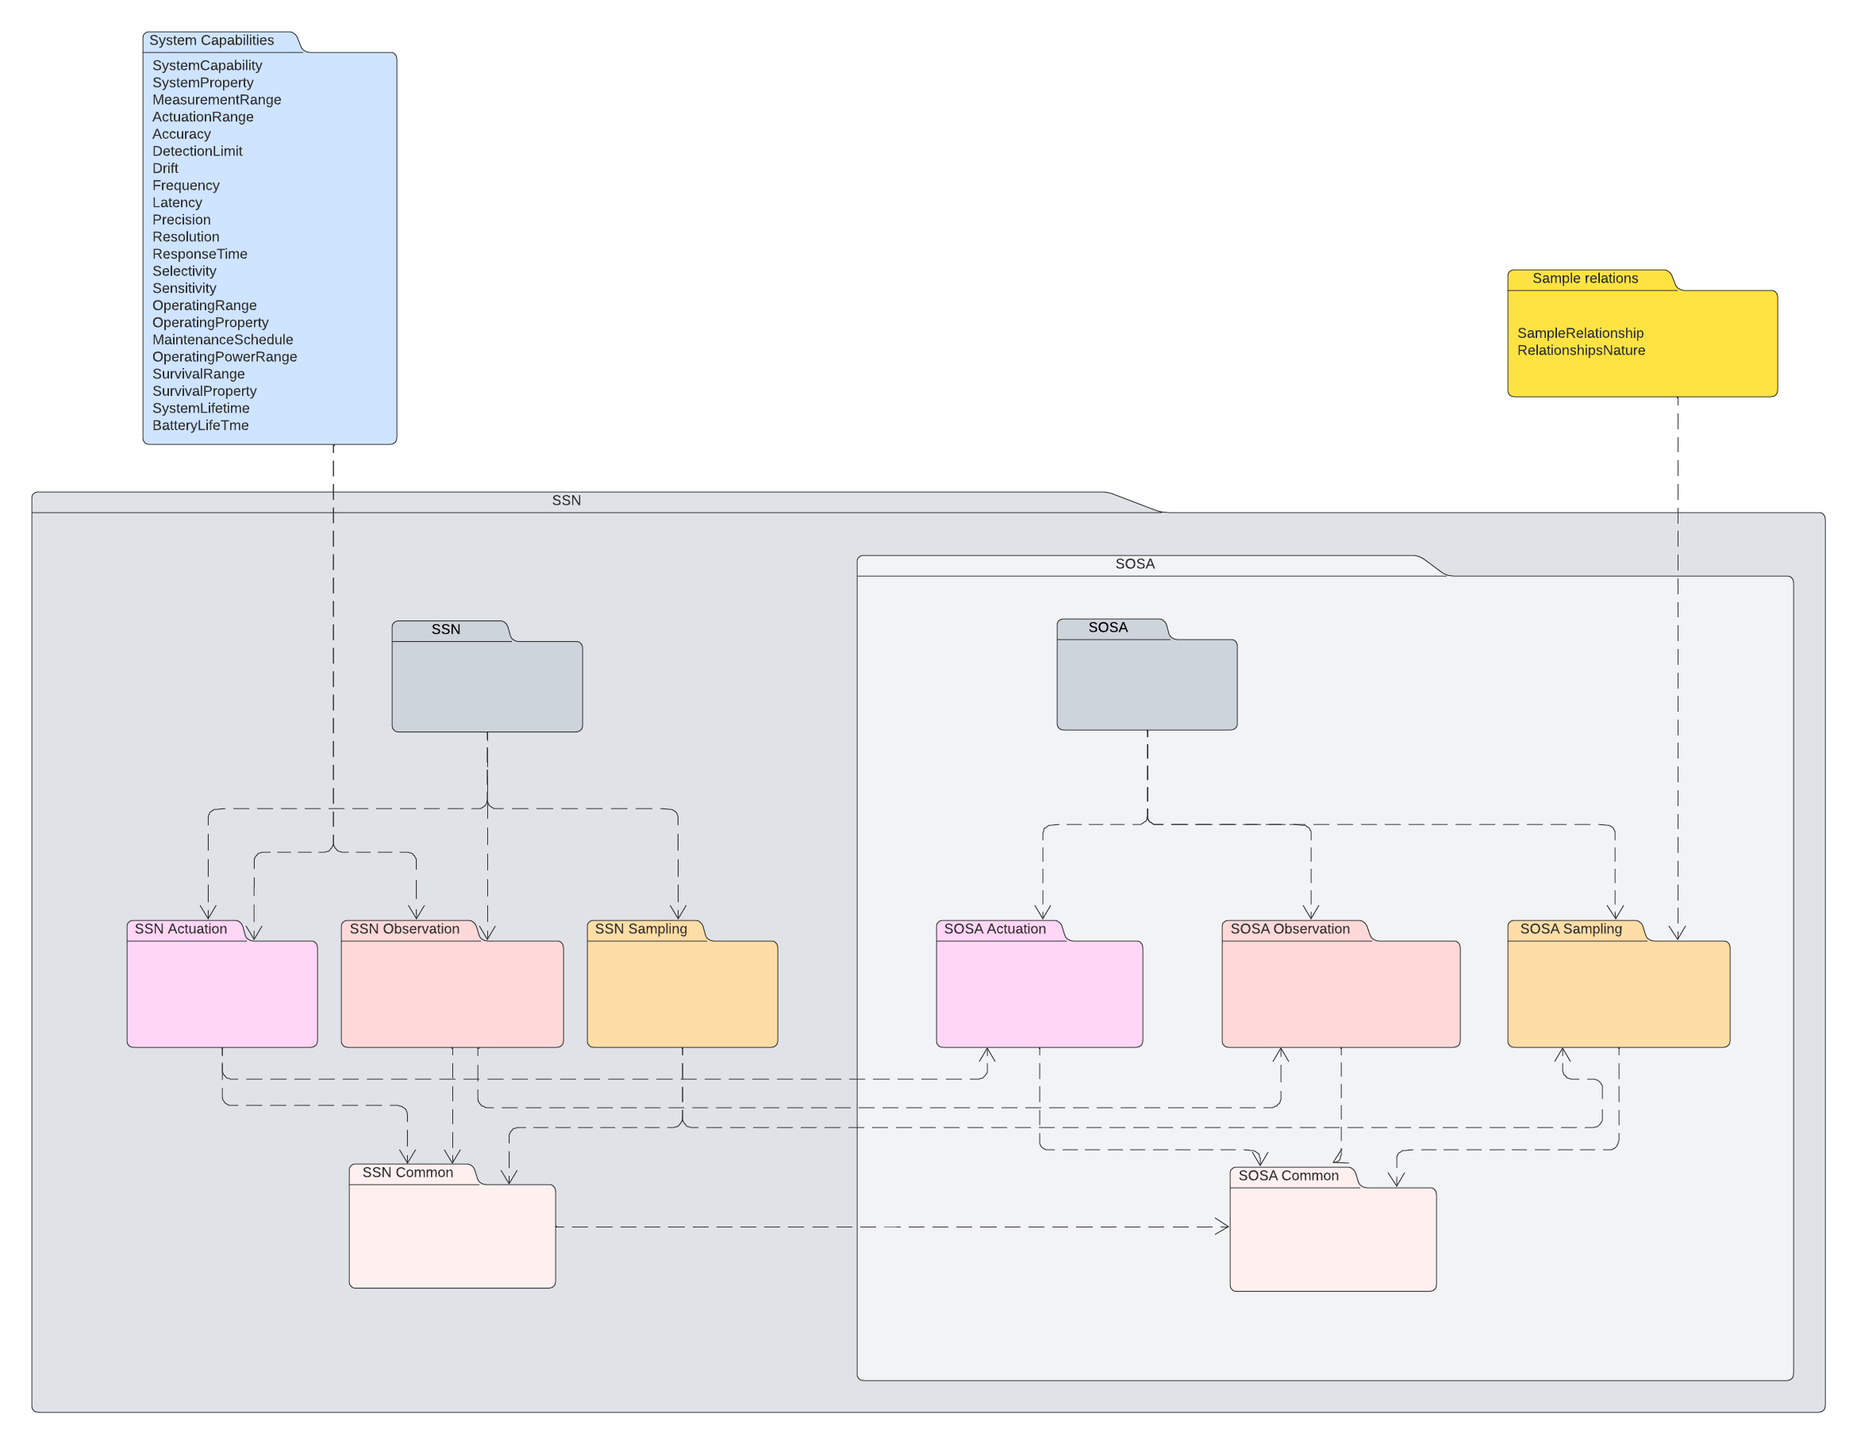
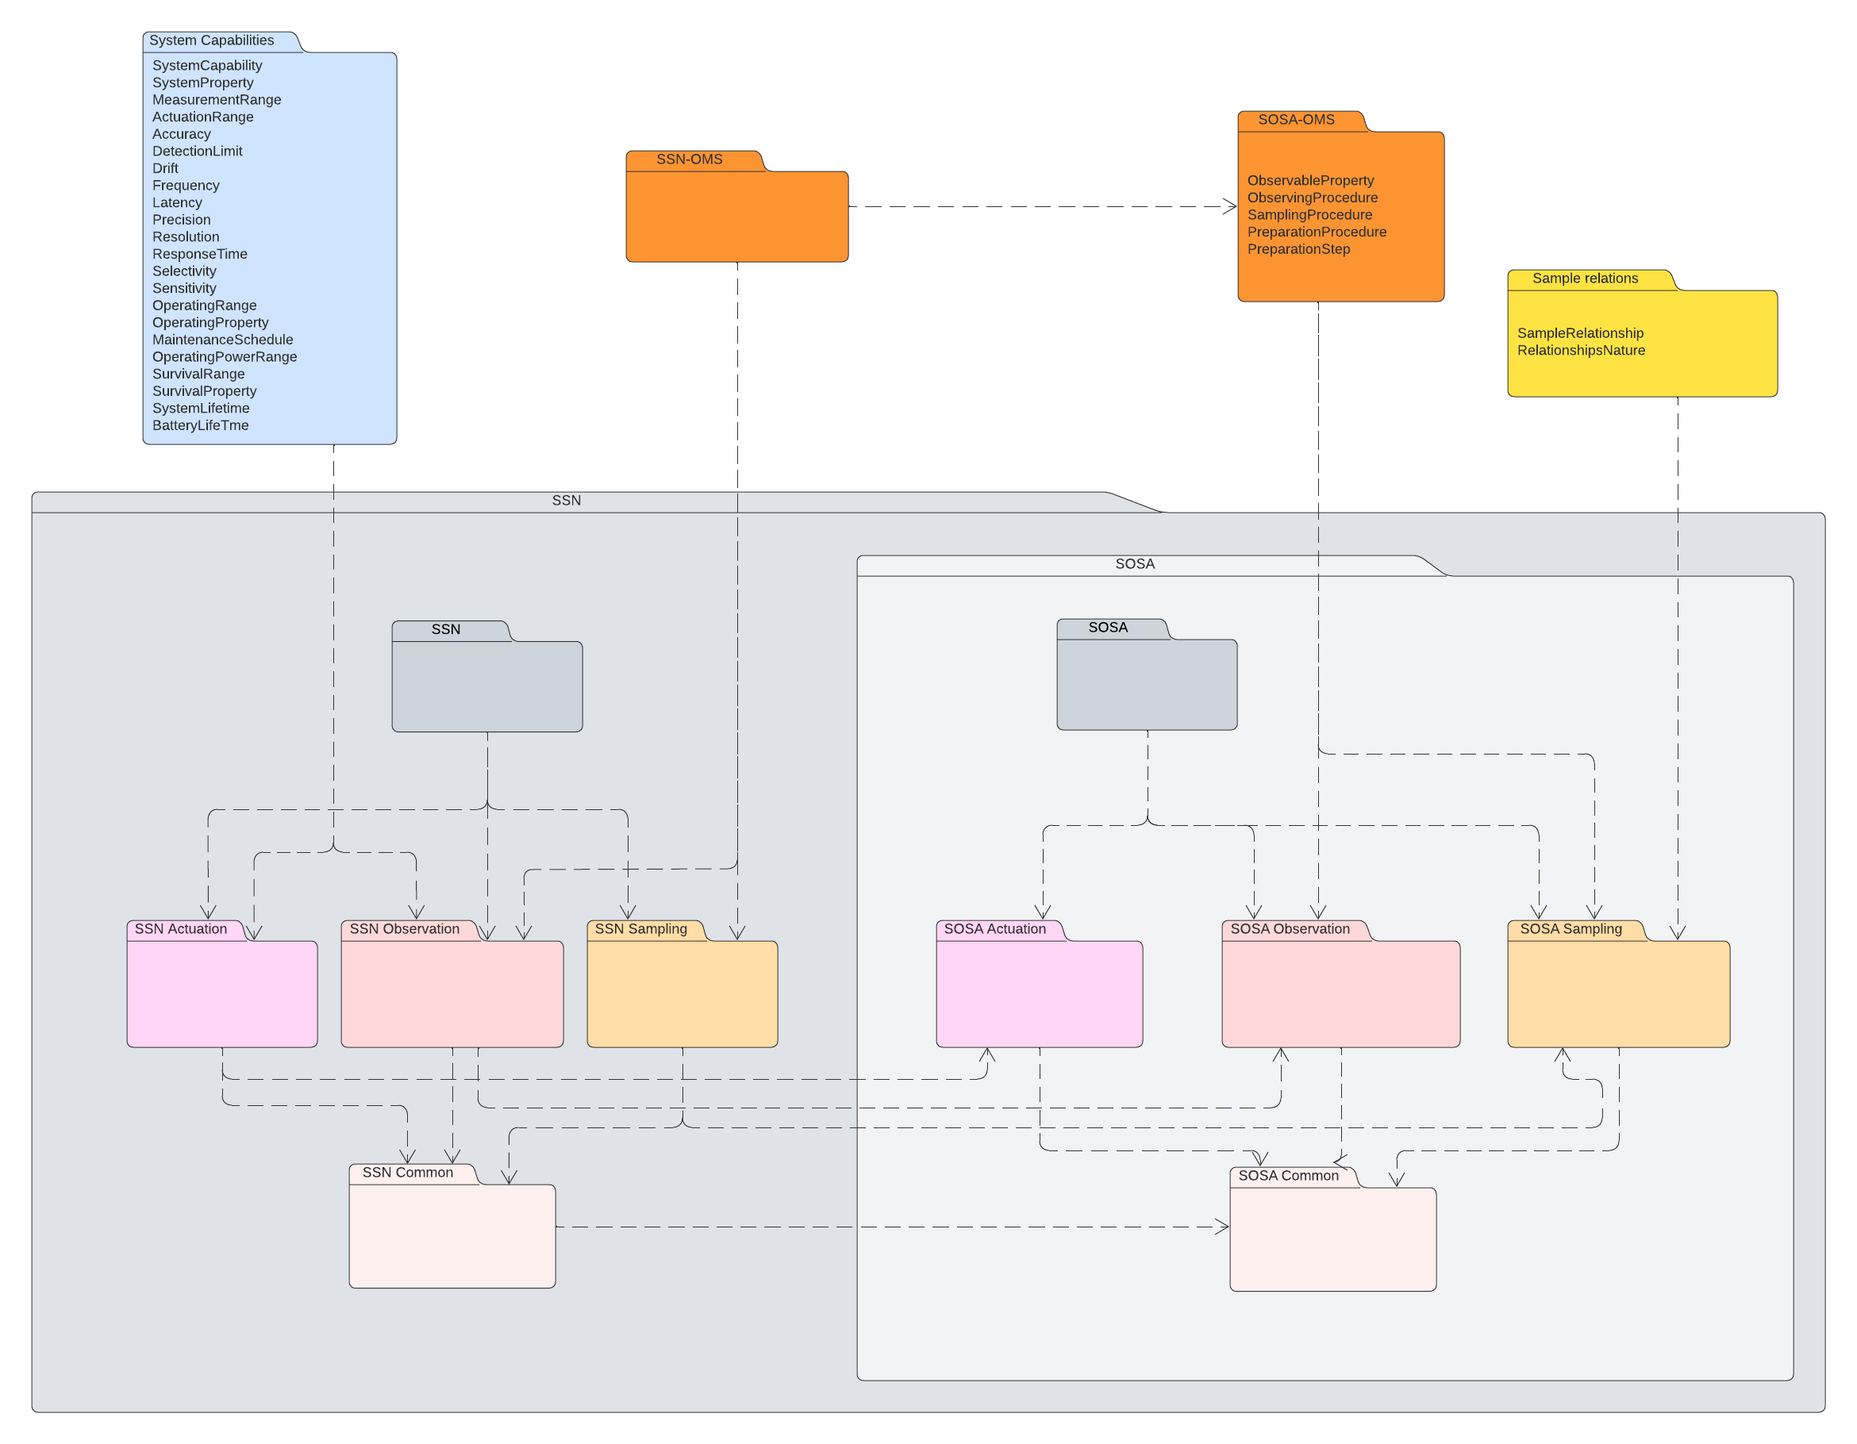
Move OMS modeul from Alignments to Extensions

Changed region(s): [[0.6551, 0.0615, 0.7799, 0.2154], [0.312, 0.0923, 0.4679, 0.1846]]

diff --git a/ssn/chapters/OMS.html b/ssn/chapters/OMS.html
@@ -1,13 +1,12 @@
-<!-- <section id="OMS_alignment" class="normative"> -->
-<h3>OMS Alignment Module</h3>
+<!-- <section id="OMS" class="normative"> -->
+<h3>OMS Extension Module</h3>
 <p>
-  This section introduces the alignment of SOSA and SSN to [[[OMS]]] (ISO 19156:2023).
+  This section introduces extensions to the SSN Ontology to provide a canonical RDF implementation of [[[OMS]]] (ISO
+  19156:2023).
 </p>
 <p>
   OMS is the latest edition of the OGC and ISO standard previously known as Observations and Measurements [[OandM]],
   which was a key influence and input in the development of SSN.
-  This module serves to provide a detailed mapping of SOSA terms to discrete requirements in [[OMS]] thus
-  explaining how SOSA and SSN provide an RDF and OWL/RDFS implementation of OMS (repectively).
 </p>
 <p class="note">
   OMS was published by ISO 19156:2023 [[iso-19156-2023]], but is freely available as OGC Abstract
@@ -15,13 +14,14 @@
 </p>
 
 <p>
+  This module provides (i) additional classes and properties required for an RDF implementation of OMS, (ii) a detailed
+  mapping of SOSA terms to discrete requirements in [[OMS]].
   Note that [[OMS]] is formalized using UML, which does not provide accessible global identifiers for terms in the
   structure model.
-  Here we use the URI for each formal Requirement relating to a class or property in [[OMS]] to denote the UML
-  class or property.
-  Within the RDF representation of the alignment, we use the predicates <code>ogc-ms:implements</code> to link a SOSA
-  term to the corresponding OMS class or property, and <code>ogc-ms:implementedBy</code> for the inverse, defined as
-  follows: </p>
+  The URI for each formal Requirement relating to a class or property in [[OMS]] denotes the UML class or
+  property.
+  The predicate <code>ogc-ms:implements</code> links a SOSA term to the corresponding OMS class or property,
+  and <code>ogc-ms:implementedBy</code> its inverse, defined as follows: </p>
 <pre>ogc-ms:implements an OWL:ObjectProperty ;
   rdfs:subPropertyOf dcterms:source , prov:wasDerivedFrom . </pre>
 
@@ -30,8 +30,7 @@
 
 <h4>SOSA-OMS</h4>
 <p>
-  SOSA-OMS describes the alignment of SOSA to ISO 19156:2023 [[OMS]] using annotations to link SOSA
-  terms to specific requirements in [[OMS]].
+  SOSA-OMS describes the implementation of ISO 19156:2023 [[OMS]] using terms from the SSN Ontology.
   SOSA-OMS imports SOSA Observation and SOSA Sampling and declares additional terms required for OMS.
   <b>SOSA-OMS is the canonical RDF implementation of OMS.</b>
 </p>
@@ -41,7 +40,8 @@
 
 <h4>SSN-OMS</h4>
 <p>
-  SSN-OMS describes the alignment of SSN to ISO 19156:2023 [[OMS]] with RDFS/OWL axiomatization.
+  SSN-OMS describes the implementation of ISO 19156:2023 [[OMS]] using terms from the SSN Ontology, with RDFS/OWL
+  axiomatization.
   SSN-OMS imports SOSA-OMS and SSN Observation and SSN Sampling.
   <b>SSN-OMS is the canonical OWL implementation of OMS.</b>
 </p>
@@ -49,9 +49,9 @@
   The SSN-OMS graph is available at <a href="http://www.w3.org/ns/ssn-oms/">http://www.w3.org/ns/ssn-oms/</a>.
 </p>
 
-<section id="OMS_Alignment-namespaces">
+<section id="OMS-namespaces">
   <h4>Namespaces</h4>
-  <p>The following namespace prefixes are used in the alignment of SOSA and SSN to OMS</p>
+  <p>The following namespace prefixes are used in the RDF implementation of OMS:</p>
   <table>
     <tbody>
       <tr>
@@ -106,12 +106,14 @@
     </tbody>
   </table>
 </section>
-<section id="OMS-Alignment-New-Terms">
+<section id="OMS-New-Terms">
   <h4>New terms</h4>
   <p>
     A number of terms in OMS do not have matches in the SSN Ontology.
   </p>
-  <p>This section introduces the following classes and properties:</p>
+  <p>
+    This section introduces the following classes and properties:
+  </p>
   <div class="azlist">
     <p>
       <a href="#OMSObservingProcedure">sosa-oms:ObservingProcedure</a>
@@ -132,7 +134,7 @@
 
   <p class="note">Terms in the <code>sosa-oms:</code> namespace were added in the 2024 Update.
     These are non-normative, pending further implementation experience</p>
-<p>
+  <p>
 
   <section class="informative specterm sosa" id="OMSObservingProcedure" about="sosa-oms:ObservingProcedure"
     typeof="owl:Class">
@@ -285,7 +287,7 @@
     </table>
 
     <div class="buttonpanel">
-      <span class="back">[<a href="#OMS_alignment">Back to module overview</a>]</span>
+      <span class="back">[<a href="#OMS">Back to module overview</a>]</span>
       <span class="back">[<a href="#overview-of-classes-and-properties">Back to top</a>]</span>
     </div>
   </section>
@@ -370,7 +372,7 @@
       </tbody>
     </table>
     <div class="buttonpanel">
-      <span class="back">[<a href="#OMS_alignment">Back to module overview</a>]</span>
+      <span class="back">[<a href="#OMS">Back to module overview</a>]</span>
       <span class="back">[<a href="#overview-of-classes-and-properties">Back to top</a>]</span>
     </div>
   </section>
@@ -415,7 +417,7 @@
     </table>
 
     <div class="buttonpanel">
-      <span class="back">[<a href="#OMS_alignment">Back to module overview</a>]</span>
+      <span class="back">[<a href="#OMS">Back to module overview</a>]</span>
       <span class="back">[<a href="#overview-of-classes-and-properties">Back to top</a>]</span>
     </div>
   </section>
@@ -468,7 +470,7 @@
       </tbody>
     </table>
     <div class="buttonpanel">
-      <span class="back">[<a href="#OMS_alignment">Back to module overview</a>]</span>
+      <span class="back">[<a href="#OMS">Back to module overview</a>]</span>
       <span class="back">[<a href="#overview-of-classes-and-properties">Back to top</a>]</span>
     </div>
   </section>
@@ -504,7 +506,7 @@
     </table>
 
     <div class="buttonpanel">
-      <span class="back">[<a href="#OMS_alignment">Back to module overview</a>]</span>
+      <span class="back">[<a href="#OMS">Back to module overview</a>]</span>
       <span class="back">[<a href="#overview-of-classes-and-properties">Back to top</a>]</span>
     </div>
   </section>
@@ -546,7 +548,7 @@
     </table>
 
     <div class="buttonpanel">
-      <span class="back">[<a href="#OMS_alignment">Back to module overview</a>]</span>
+      <span class="back">[<a href="#OMS">Back to module overview</a>]</span>
       <span class="back">[<a href="#overview-of-classes-and-properties">Back to top</a>]</span>
     </div>
   </section>
@@ -588,7 +590,7 @@
     </table>
 
     <div class="buttonpanel">
-      <span class="back">[<a href="#OMS_alignment">Back to module overview</a>]</span>
+      <span class="back">[<a href="#OMS">Back to module overview</a>]</span>
       <span class="back">[<a href="#overview-of-classes-and-properties">Back to top</a>]</span>
     </div>
   </section>
@@ -628,7 +630,7 @@
     </table>
 
     <div class="buttonpanel">
-      <span class="back">[<a href="#OMS_alignment">Back to module overview</a>]</span>
+      <span class="back">[<a href="#OMS">Back to module overview</a>]</span>
       <span class="back">[<a href="#overview-of-classes-and-properties">Back to top</a>]</span>
     </div>
   </section>
@@ -670,7 +672,7 @@
     </table>
 
     <div class="buttonpanel">
-      <span class="back">[<a href="#OMS_alignment">Back to module overview</a>]</span>
+      <span class="back">[<a href="#OMS">Back to module overview</a>]</span>
       <span class="back">[<a href="#overview-of-classes-and-properties">Back to top</a>]</span>
     </div>
   </section>
@@ -716,16 +718,16 @@
     </table>
 
     <div class="buttonpanel">
-      <span class="back">[<a href="#OMS_alignment">Back to module overview</a>]</span>
+      <span class="back">[<a href="#OMS">Back to module overview</a>]</span>
       <span class="back">[<a href="#overview-of-classes-and-properties">Back to top</a>]</span>
     </div>
   </section>
 
 </section>
 
-<section id="OMS-Alignment-Class-SOSA">
+<section id="OMS-Class-SOSA">
   <h4>Class Alignments - SOSA focus</h4>
-  <p>The following classes used in SOSA can be aligned as indicated: </p>
+  <p>The following classes from the SSN Ontology and this extension implement UML classes from OMS as indicated: </p>
   <table data-sortable="true">
     <tbody>
       <tr>
@@ -827,9 +829,10 @@
   </table>
 </section>
 
-<section id="OMS-Alignment-Class-OMS">
+<section id="OMS-Class-OMS">
   <h4>Class Alignments - OMS focus</h4>
-  <p>The following classes in OMS can be aligned as indicated: </p>
+  <p>The following UML classes in OMS are implemented by classes from the SSN Ontology and this extension as indicated:
+  </p>
   <table data-sortable="true">
     <tbody>
       <tr>
@@ -931,9 +934,10 @@
   </table>
 </section>
 
-<section id="OMS-Alignment-Property-SOSA">
+<section id="OMS-Property-SOSA">
   <h4>Property Alignments - SOSA focus</h4>
-  <p>The following properties used in SOSA can be aligned as indicated: </p>
+  <p>The following properties from the SSN Ontology and this extension implement attributes and association roles from
+    OMS as indicated: </p>
   <table data-sortable="true">
     <tbody>
       <tr>
@@ -1149,9 +1153,10 @@
   </table>
 </section>
 
-<section id="OMS-Alignment-Property-OMS">
+<section id="OMS-Property-OMS">
   <h4>Property Alignments - OMS focus</h4>
-  <p>The following association roles from OMS can be aligned as indicated: </p>
+  <p>The following attributes and association roles from OMS are implemented by properties from the SSN Ontology and
+    this extension as indicated: </p>
   <table data-sortable="true">
     <tbody>
       <tr>

diff --git a/ssn/index.html b/ssn/index.html
@@ -174,6 +174,8 @@
     <h2>SSN Extensions</h2>
     This section provides details on modules that extend the scope and capabilities of SSN.
 
+    <section id="OMS" class="normative" data-include="./chapters/OMS.html"></section>
+
     <section id="System-capabilities" class="normative" data-include="./chapters/System-capabilities.html"></section>
 
     <section id="Sample-Relations" class="normative" data-include="./chapters/Sample-Relations.html"></section>
@@ -184,8 +186,6 @@
     <h2>Alignments</h2>
     <p>This section introduces the specifications for the modules that align SOSA and SSN to a variety of related
       ontologies and specifications. </p>
-
-    <section id="OMS-alignment" class="normative" data-include="./chapters/OMS-alignment.html"></section>
 
     <section id="PROV-alignment" class="normative" data-include="./chapters/PROV-alignment.html"></section>
 
@@ -640,32 +640,25 @@
     <ol>
       <li>Updated Abstract to reflect the revised graph and axiomatization design</li>
       <li>Updated Chapter 2 'Modularization' to simplify and to reflect the revised graph arrangement</li>
-      <li>Changed title of Chapter 4 from 'Axiomatization' to 'RDF Implementation' and updated the summary of
-        namespaces
-        and graphs</li>
-      <li>Adjust namespace of terms previously in sosa:</li>
-      <li>Added OMS alignment modules to section 6. 'Vertical Segmentation'</li>
-      <li>Added ObservationCollection, SampleCollection, hasMember</li>
-      <li>Retire O&amp;Mv2 alignment - superseded by OMS alignment</li>
-      <li>Retire SSNX alignment - leave behind a stub giving links to the previous edition of the recommendation and
-        to
+      <li>Add conformance clause Chapter 3</li>
+      <li>Updated Chapter 4 and Chapter 5.1 to explain modularization and RDF implementation</li>
+      <li>Retire O&amp;Mv2 alignment - superseded by OMS extension</li>
+      <li>Retire SSNX alignment - leave behind a stub giving links to the previous edition of the recommendation and to
         the RDF alignment file</li>
-      <li>Remove sosa:Input, sosa:Output ; mark ssn:Input, ssn:Output deprecated</li>
+      <li>Mark ssn:Input, ssn:Output deprecated</li>
       <li>Mark ssn-system:Condition deprecated</li>
       <li>Mark sosa:Result deprecated</li>
-      <li>Update OBOE alignment - using ObservationCollection, SampleCollection, hasMember</li>
-      <li>remove rdfs:range on sosa:resultTime</li>
-      <li>Add content model for Execution, including hasInputValue and hasOutputValue</li>
+      <li>Add ObservationCollection, SampleCollection, hasMember</li>
       <li>Add ActuationCollection to provide basic support for sets of actuations on multiple properties with multiple
         results; clarify meaning of Actuation result</li>
+      <li>Add SamplingCollection to provide mechanism for grouping sets of Samplings with common properties</li>
+      <li>Update OBOE alignment - using ObservationCollection, SampleCollection, hasMember</li>
+      <li>remove rdfs:range on sosa:resultTime</li>
+      <li>Add content model for Execution, ExecutionCollection, including hasInputValue and hasOutputValue</li>
       <li>Clarify meaning of hasResult, resultTime, phenomenonTime in the context of Actuations</li>
       <li>introduced startTime property</li>
-      <li>added MaterialSample SpatialSample StatisticalSample relatedObservation resultQuality to SOSA graph and sosa:
-        namespace, removed from SOSA-OMS graph and sosa:oms: ns
-      </li>
       <li>Refactored SOSA and SSN into modules - sosa-common sosa-actuation sosa-observation sosa-sampling sosa (all),
         and matching ssn-* files (also ssn-deprecated). Refactored HTML sources to match. </li>
-      <li>Add conformance clause</li>
       <li>Update and streamline Introduction; move Origins section to an Annex. </li>
       <li>re-drafted all figures; added a clause on notation</li>
       <li>retire ssn-system:qualityOfObservation - functionally equivalent to sosa:resultQuality</li>
@@ -675,7 +668,6 @@
       <li>Add madeBySystem, madeExecution </li>
       <li>Add explanation of how domain types relate to feature-of-interest; remove Sample is subclass of
         FeatureOfInterest axiom
-      <li>Add SamplingCollection to provide mechanism for grouping sets of Samplings with common properties</li>
       </li>
     </ol>
   </section>

diff --git a/ssn/chapters/Modularization.html b/ssn/chapters/Modularization.html
@@ -100,6 +100,21 @@
         </figcaption>
     </figure>
 
+    <h4 id="sosa-oms-module">OMS</h4>
+    <p>
+        The <i>SOSA-OMS module</i> imports <b>SOSA Observation</b> and <b>SOSA Sampling</b> and adds classes and
+        properties required to provide an RDF implementation of [[[OMS]]].
+        <b><i>SOSA-OMS</i> may be used by audiences for whom full conformance to [[OMS]] (also known as ISO 19156:2023)
+            is a requirement</b>
+    </p>
+
+    <p>
+        The <i>SSN-OMS module</i> imports <i>SOSA-OMS</i> and <b>SSN Observation</b> and <b>SSN Sampling</b> and adds
+        OWL/RDFS axiomatization to the RDF implementation of [[OMS]].
+        <b><i>SSN-OMS</i> may be used by audiences for whom full conformance to [[OMS]] (also known as ISO 19156:2023)
+            is a requirement, with reasoning support</b>
+    </p>
+
     <h4 id="system-capabilities-module">System Capabilities</h4>
     <p>
         The <i>System Capabilities module</i> imports <i>SSN Actuation</i> and <i>SSN Observation</i>, and adds classes
@@ -130,25 +145,6 @@
             <em><a href="#module-diagram">Explanation of the notation used in module diagrams</a></em>.
         </figcaption>
     </figure>
-
-    <h4 id="sosa-oms-module">OMS</h4>
-    <p>
-        The <i>SOSA-OMS module</i> imports <b>SOSA Observation</b> and <b>SOSA Sampling</b> and describes the alignment
-        of
-        SOSA to [[[OMS]]], adding some
-        additional terms used in OMS that are not otherwise included in SSN.
-        <b><i>SOSA-OMS</i> may be used by audiences for whom strict conformance to [[OMS]] (also known as ISO
-            19156:2023)
-            is a requirement</b>
-    </p>
-
-    <p>
-        The <i>SSN-OMS module</i> imports <i>SOSA-OMS</i> and <b>SSN Observation</b> and <b>SSN Sampling</b> and
-        describes
-        the alignment of SSN to [[OMS]] including OWL/RDFS axiomatization.
-        <b><i>SSN-OMS</i> may be used by audiences for whom strict conformance to [[OMS]] (also known as ISO 19156:2023)
-            is a requirement, with reasoning support</b>
-    </p>
 
     <h4 id="sosa-prov-module">PROV</h4>
     <p>

diff --git a/ssn/chapters/Origins.html b/ssn/chapters/Origins.html
@@ -65,8 +65,7 @@
 
 <p>
     Production of this new edition of the SSN Ontology has been primarily driven by a desire to align with OMS.
-    SSN provides the official RDF implementation of OMS, as described in the <a href="#OMS-alignment">OMS Alignment
-        Module</a>.
+    SSN provides the official RDF implementation of OMS, as described in the <a href="#OMS">OMS Extension Module</a>.
     In addition, developments in <em>Internet of Things</em> implementations, in particular [[SAREF]], [[STA]] and the
     OGC Connected Systems project have contributed some ideas particularly around actuation.
     Finally, direct experience with SSN has uncovered a variety of more minor issues that have been addressed or

diff --git a/ssn/rdf/ontology/extensions/README.md b/ssn/rdf/ontology/extensions/README.md
@@ -1,6 +1,9 @@
-# Extention modules of the Semantic Sensor Network Ontology
+# Extension modules of the Semantic Sensor Network Ontology
 
 This folder contains the Extension modules of the RDF representation of the **2024 Edition** of the **Semantic Sensor Network Ontology** (SSN).
 
+- OMS extension
+  - [basic implementation](./sosa-oms.ttl)
+  - [with axiomatization](./ssn-oms.ttl)
 - [System capabilities](./ssn-system.ttl)
 - [Sample relations](./sample-relations.ttl)

diff --git a/ssn/rdf/ontology/alignments/README.md b/ssn/rdf/ontology/alignments/README.md
@@ -2,9 +2,6 @@
 
 This folder contains the Alignment modules of the RDF representation of the **2024 Edition** of the **Semantic Sensor Network Ontology** (SSN).
 
-- OMS alignment
-  - [basic alignment](./sosa-oms.ttl)
-  - [with axiomatization](./ssn-oms.ttl)
 - [PROV alignment](./sosa-prov.ttl)
 - [OBOE alignment](./sosa-oboe.ttl)
 - [SAREF alignment](./sosa-saref.ttl)
